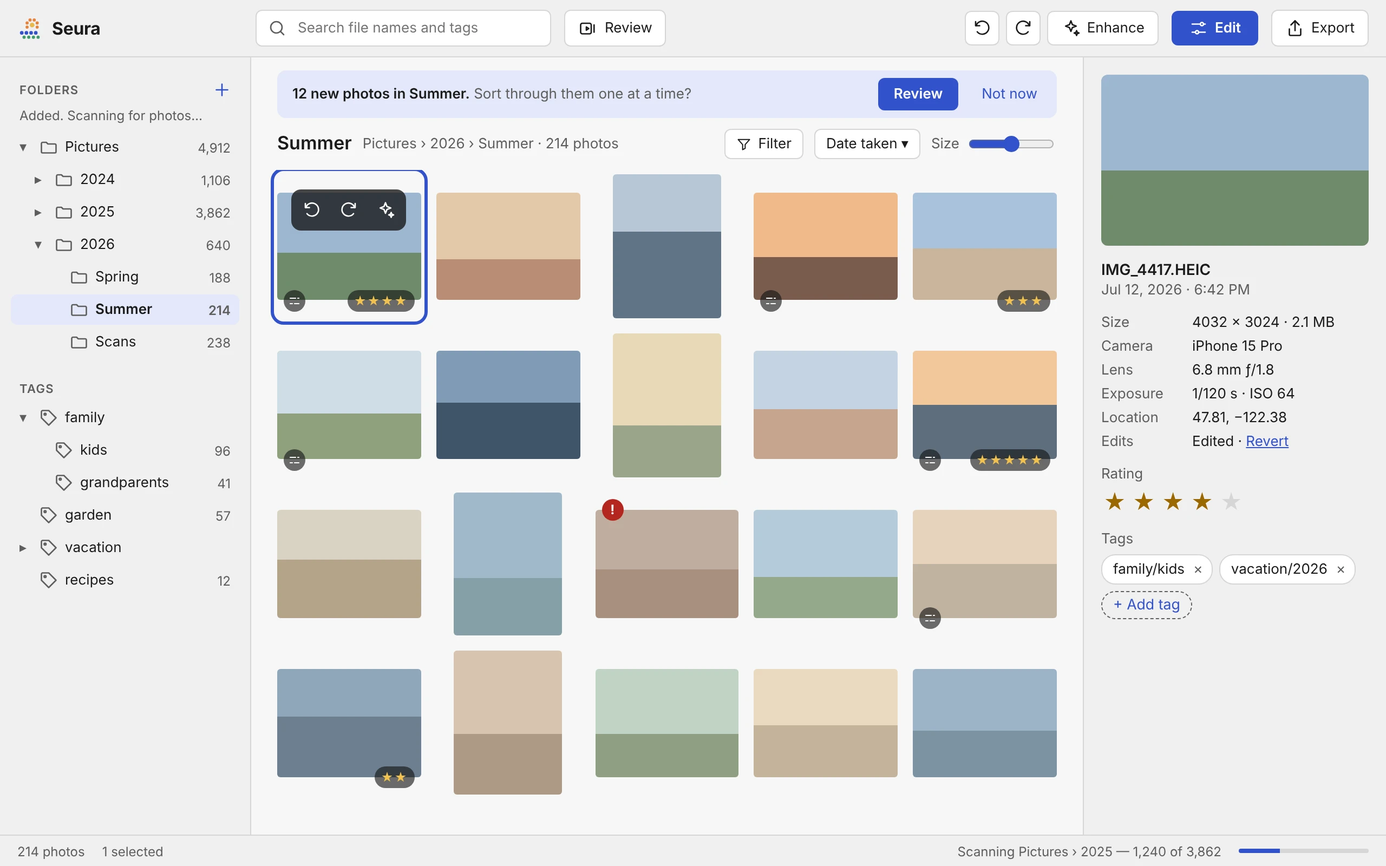
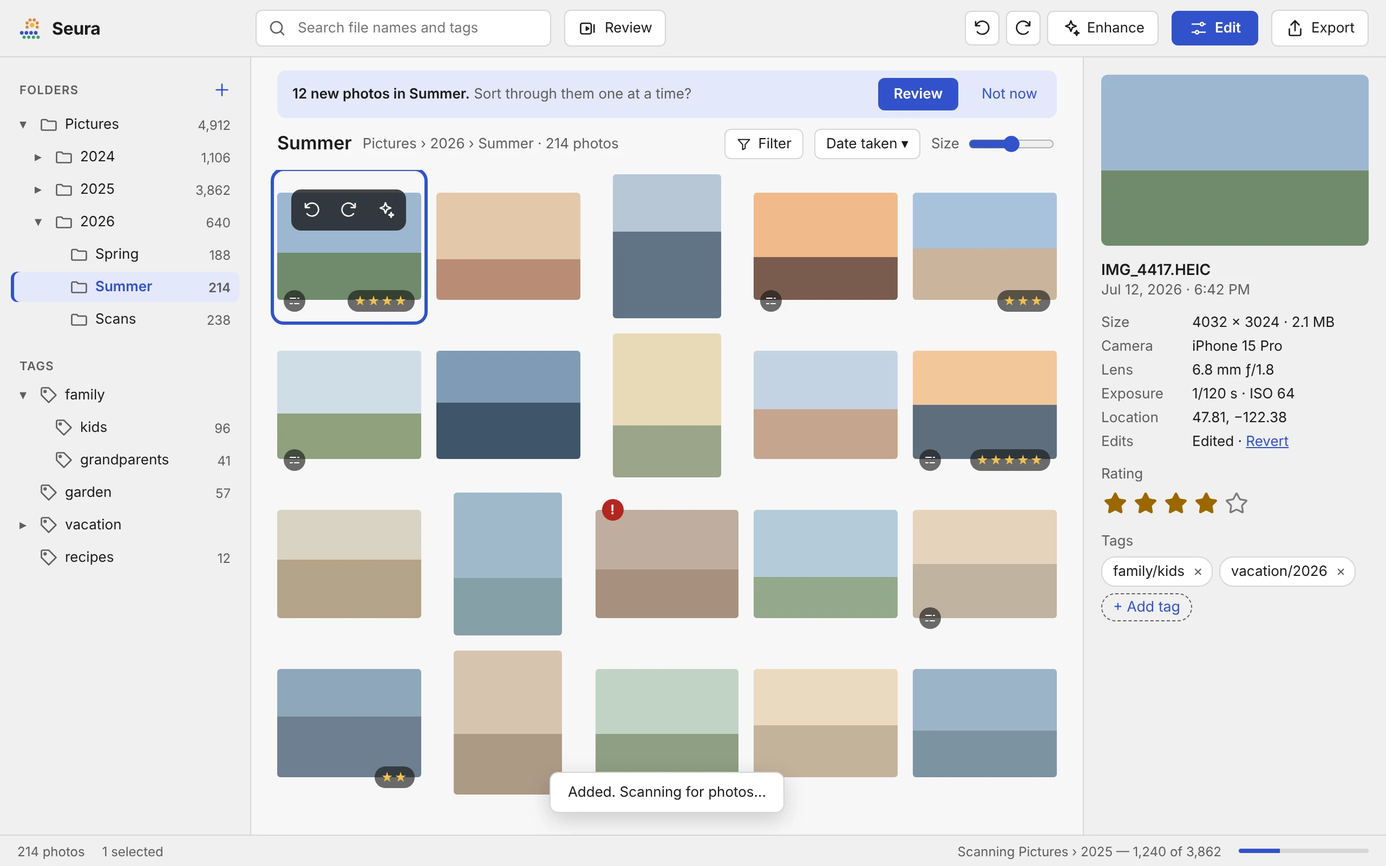
M3 wrap-up: sidebar, messages, deleting cloud photos, early builds
Answers the design questions from building M3:
- Resizable sidebar: 180 to 400 px, divider look and keys (wireframes,
  visual design, tokens sidebarMin and sidebarMax; INT-2 note).
- INT-6 (new): file problems in the notice bar, the last action's result
  in a brief message near the bottom of the photo area, in the Library
  and Viewer alike.
- BRW-9: cloud-only photos and drives with no Recycle Bin stay out of
  Delete; the restore-both point folded into the confirmation.
- TAG-3 (Enter takes the first match), TAG-6 (clicking the current star
  clears), FND-1 (filter count), ACC-6 (web view date fields).
- Visual design: selected row, outline stars (ratingOff, ratingDisabled),
  notice bar styles, the message, the divider.
- Decision 0016: early builds are public from 0.2; milestone plan wording.
- Mockups refreshed; journal entry.

Claude-Session: https://claude.ai/code/session_01S3MFyAFK74DFrLfWJvQiDx

diff --git a/ui/src/styles/tokens.css b/ui/src/styles/tokens.css
@@ -27,6 +27,8 @@
   --size-header: 3.25rem;
   --size-footer: 1.75rem;
   --size-sidebar: 14.5rem;
+  --size-sidebar-min: 11.25rem;
+  --size-sidebar-max: 25rem;
   --size-info-panel: 17.5rem;
   --size-edit-panel: 18.75rem;
   --icon-size: 1.5rem;
@@ -49,7 +51,8 @@
   --color-danger: #B3261E;
   --color-danger-subtle: #FBE9E7;
   --color-rating: #9A6700;
-  --color-rating-off: #C9C9C9;
+  --color-rating-off: #7A7A7A;
+  --color-rating-disabled: #C9C9C9;
 }
 
 @media (prefers-color-scheme: dark) {
@@ -67,6 +70,7 @@
     --color-danger: #FF8A80;
     --color-danger-subtle: #4A2523;
     --color-rating: #E3B341;
-    --color-rating-off: #4D4D4D;
+    --color-rating-off: #808080;
+    --color-rating-disabled: #4D4D4D;
   }
 }

diff --git a/docs/functional-spec.md b/docs/functional-spec.md
@@ -1,6 +1,6 @@
 # Seura Photos — Functional Spec (v1)
 
-Status: approved · Last updated: 2026-10-26
+Status: approved · Last updated: 2026-10-27
 
 This spec defines what Seura Photos v1 does, as behaviors with testable acceptance criteria. It builds on the [product brief](product-brief.md). Screen layout comes in the design phase, and the edit file format has its own specification in [seura-photos/edit-format](https://github.com/seura-photos/edit-format). Each requirement has an ID (LIB-1, EDT-3) so tests, commits, and code can reference it.
 
@@ -34,7 +34,9 @@ Selecting a folder or tag shows its photos in a thumbnail grid; opening one show
 - **BRW-6 Photo info.** A panel, always visible in the Library and Viewer, shows file name, date taken, dimensions, file size, camera and lens, exposure settings (shutter speed and ISO, plus exposure compensation when there was some), location as coordinates, tags, and rating. A photo with no date taken, such as a scan or a screenshot, shows its date modified instead, labeled as such.
 - **BRW-7 Correct display.** Orientation stored in the photo's metadata is honored, and embedded color profiles are applied, so iPhone photos show their true colors.
 - **BRW-8 Open elsewhere.** Show in Explorer or Finder, and open in the system's default app.
-- **BRW-9 Delete.** On explicit request and after confirmation, moves the selected photos and their edit files to the system Recycle Bin or Trash. Never permanent deletion. Not available in read-only folders. Deleting a photo in a cloud-synced folder also deletes it from the cloud and the user's other devices; the service keeps it in its own deleted items for a time. When the selection includes such photos, the confirmation says so, naming the service: "3 of these photos are in OneDrive. They'll be removed from OneDrive on all your devices too. OneDrive keeps deleted files in its own recycle bin for a while." It doesn't promise a number of days, which varies by service and plan. A cloud-only photo is never downloaded just to delete it (LIB-9).
+- **BRW-9 Delete.** On explicit request and after confirmation, moves the selected photos and their edit files to the system Recycle Bin or Trash. Never permanent deletion. Not available in read-only folders. The confirmation says that a photo's edits, tags, and rating are in a small file beside it, which goes too, and that restoring both gets everything back. Deleting a photo in a cloud-synced folder also deletes it from the cloud and the user's other devices; the service keeps it in its own deleted items for a time. When the selection includes such photos, the confirmation says so, naming the service: "3 of these photos are in OneDrive. They'll be removed from OneDrive on all your devices too. OneDrive keeps deleted files in its own recycle bin for a while." It doesn't promise a number of days, which varies by service and plan. Photos that can't reach the Recycle Bin or Trash are left as they are, and the confirmation says which and why, so the user is never one step from a permanent deletion:
+  - **Cloud-only photos:** measured on OneDrive, Windows sends them only to the service's recycle bin online, silently, and macOS refuses. A cloud-only photo is never downloaded just to delete it (LIB-9). The confirmation says to delete it from the service, or to open it first, which downloads it. Downloading them one at a time so they can go to the Trash is planned with Review's batched deletion (M6, REV-4).
+  - **Drives with no Recycle Bin,** such as a USB stick or a network share, where Windows would offer to delete permanently: Delete isn't offered for their photos, as in read-only folders.
 - **BRW-10 Quick actions.** Rotate left and right, Enhance, and rating are available directly in the Library (for the selection) and the Viewer, as one click or one key, without opening the Editor. In the Library, rotate and Enhance also appear on a thumbnail while it's hovered, so the pointer doesn't leave the grid (INT-5).
 - **BRW-11 Undo in the Library.** Ctrl+Z undoes the last action, whatever is selected now; Shift+Ctrl+Z redoes it. An action is one change to every photo it touched, such as a rating or a tag applied to a selection. The app remembers, in memory only, the last 10 actions of the session and which photos each touched; the changes themselves are recorded only in each photo's edit file history (EDT-9). Undoing an action is the edit format's undo on each of those photos: its history record is marked undone, and the previous values are restored, so the Library and the Editor always agree on a photo's history. A photo whose latest change is no longer the one from that action, because it was changed since in the Editor or by another app, or whose history fails the edit format's consistency check, is left alone. What was undone is always said: in the Edit menu on macOS before it's chosen ("Undo Rating (5 photos)"), and as a brief notice afterwards on both platforms ("Undid rating on 5 photos", including how many photos were skipped). After a restart there is nothing to undo in the Library; each photo's own history still works in the Editor. Moving photos to the Trash (BRW-9) is not undoable; its confirmation is the safeguard.
 
@@ -82,10 +84,10 @@ Tags and ratings are stored in each photo's edit file, so they travel with the p
 
 - **TAG-1 Tag structure.** A tag is one string; slashes mark levels for display only. `family`, `kids`, and `family/kids` are three separate tags. In the tag tree, `family/kids` appears as `kids` under `family`. The `family` node exists in the tree even when no photo has the plain tag `family`.
 - **TAG-2 Clean-up of typed tags.** Leading and trailing spaces and slashes, and empty levels such as `family//kids`, are removed. Matching is case-insensitive: typing `Family` when `family` exists selects the existing tag. Case-insensitive matching uses full Unicode case folding on normalized text (NFC), so it works for every language, not just A to Z: `Ärzte` matches `ärzte`, and `STRASSE` matches `straße`. The tag keeps the form the user first typed.
-- **TAG-3 Tag picker.** Lists all existing tags for the user to click. Typing filters the list to tags containing the typed text. Enter adds the highlighted tag, or creates a new tag when nothing matches. With several photos selected, the tag is added to all of them.
+- **TAG-3 Tag picker.** Lists all existing tags for the user to click. Typing filters the list to tags containing the typed text, and the first match is highlighted. "Create tag "…"" is listed above the matches whenever the typed text isn't already a tag, and is highlighted only when nothing matches. Enter adds the highlighted tag, so adding an existing tag, the common case, takes the fewest keys; to create a new tag that other tags contain (typing "beach" when "beach house" exists), choose Create with the arrow keys or a click. With several photos selected, the tag is added to all of them.
 - **TAG-4 Removing tags.** A tag can be removed from one photo or a selection. A tag no photo uses disappears from the tree. There is no renaming or merging.
 - **TAG-5 Tag tree.** Selecting a node shows the photos with exactly that tag, not tags beneath it. Each node shows its photo count: the photos with exactly that tag. A node no photo has exactly, such as `family` when only `family/kids` is used, shows no count, not 0 and not a total of the tags beneath it, since selecting it shows no photos. The tag picker's counts follow the same rule.
-- **TAG-6 Ratings.** Zero to five stars, set by clicking or with keys 0 to 5, on one photo or a selection.
+- **TAG-6 Ratings.** Zero to five stars, set by clicking or with keys 0 to 5, on one photo or a selection. Clicking the current rating's star clears the rating, as in Lightroom and Apple's Photos; it's the mouse's way to clear one, and its accessible name says so ("Clear rating").
 - **TAG-8 Mixed selections.** With several photos selected, the Info panel shows what they have in common. When their ratings differ, the stars show empty with the word "Mixed" beside them, so the state doesn't depend on appearance alone; choosing a rating sets it on all of them. A tag only some of them have shows as a chip with a count, such as "beach · 3 of 7"; its × removes the tag from the photos that have it. The tag picker lists such tags first, and Enter adds the tag to the rest of the selection.
 - **TAG-7 Read-only folders.** Photos there cannot be tagged or rated, and the controls say why: a line in the Info panel where the rating and tags are, such as "This folder is read-only, so tags and ratings can't be saved here." The stars and Add tag stay in place, disabled, so the layout doesn't change (INT-2). Pressing T or 0 to 5 there shows the same message as a notice. A tooltip alone isn't enough: many web views show no tooltip on a disabled control, and it never reaches a keyboard user.
 
@@ -93,7 +95,7 @@ Tags and ratings are stored in each photo's edit file, so they travel with the p
 
 Filters narrow whatever the grid is showing (a folder, a tag, or search results), and a search box looks across the whole library.
 
-- **FND-1 Filters.** Minimum rating, one or more tags (a photo must have all of them), edited or unedited, and date range. Active filters are always visible and can be cleared in one click. They narrow whatever the grid shows, and stay set when the user moves to another folder, tag, or search, since they describe what the user is looking for, not where; they reset when the app restarts, so it never opens on a folder that looks empty. When nothing in view matches, the grid says so ("No photos here match the filters") with a Clear filters button.
+- **FND-1 Filters.** Minimum rating, one or more tags (a photo must have all of them), edited or unedited, and date range. Active filters are always visible and can be cleared in one click, and the Filter button shows how many are set ("Filter · 2"), so an active filter doesn't rely on color alone; the status bar shows how many photos match ("3 of 214 photos"). They narrow whatever the grid shows, and stay set when the user moves to another folder, tag, or search, since they describe what the user is looking for, not where; they reset when the app restarts, so it never opens on a folder that looks empty. When nothing in view matches, the grid says so ("No photos here match the filters") with a Clear filters button.
 - **FND-2 Search.** Matches file names and tags across the whole library. While searching, the grid shows the results from every folder, headed with the search and the number found ("Results for 'beach' · 42 photos"), and the sidebar has no selection. Esc clears the search and returns to the folder or tag selected before. Selecting a folder or tag in the sidebar ends the search.
 - **FND-3 Speed.** Results update as the user types, within 200 milliseconds for a library of 10,000 photos.
 
@@ -148,7 +150,7 @@ The app is opinionated (product brief principle 7; decision 0007): it defines on
   - **Tier 2, at most three clicks or keys:** adjustment sliders, add or remove a tag, export, copy and paste edits, delete, apply a preset.
   - **Tier 3, no limit:** effect strengths, red-eye, save or manage presets, cleanup, settings.
   The user flows document lists each action's tier and path; wireframes and the finished app are checked against it.
-- **INT-2 Fixed layout.** Each view has one layout, decided by the app. There are no options to rearrange, hide, or show panels or toolbars, and no separate beginner or advanced modes.
+- **INT-2 Fixed layout.** Each view has one layout, decided by the app. There are no options to rearrange, hide, or show panels or toolbars, and no separate beginner or advanced modes. Resizing the sidebar's width by dragging its edge isn't a layout option: it changes how much room folder and tag names get, not what's shown or where.
 - **INT-3 Process order.** Wherever the app presents a set of steps, they follow the order find, sort, fix, organize, share. In the Editor, tools are ordered Enhance; crop and straighten; rotate and flip; light; color; effects; red-eye; presets.
 - **INT-4 Progressive disclosure.** Detail appears when it becomes relevant, decided by the app: for example, an effect's strength slider appears once the effect is turned on.
 - **INT-5 Pointer travel.** Layouts minimize how far the pointer moves through a flow (Fitts's law: time to hit a target grows with distance and shrinks with size):
@@ -157,6 +159,9 @@ The app is opinionated (product brief principle 7; decision 0007): it defines on
   - Frequent targets are large: at least 32 px for tier-1 actions, and at least 44 px for the main action of a flow, such as Next in Review or Done in the Editor.
   - Confirmations of destructive actions place the safe choice where the pointer already is, never the destructive one.
   - Wireframes and builds are checked by tracing the pointer's path through the main flows: Review, fixing a photo, and tagging.
+- **INT-6 Messages and notices.** Two kinds, kept apart so neither hides the other, and the same in the Library and the Viewer:
+  - **Problems with the selected photos' files** (FIL-4, FIL-5, FIL-7) show in the notice bar at the top of the photo area for as long as those photos are selected. In the Viewer the photo fits below the bar, never under it.
+  - **The result of the last action,** when it isn't visible on its own (photos moved to the Trash, an undo, photos skipped as read-only, a folder added), shows as a brief message near the bottom of the photo area, centered, for about 6 seconds or until the next action. It never blocks anything and is announced to screen readers.
 
 ## Performance targets
 
@@ -190,7 +195,7 @@ The app should feel at home on each platform and be usable without a mouse or wi
 - **ACC-3 Display.** Text and controls meet WCAG AA contrast, scale with the system text size, and respect light or dark mode and reduced-motion settings.
 - **ACC-4 Native pieces.** System menus, file and folder dialogs, notifications, and Trash or Recycle Bin.
 - **ACC-5 Language.** English only in v1, with all text kept in message catalogs, never in code, so translations can be added later. The interface and the core (menus, dialogs, notifications) share one catalog format, and it handles each language's plural forms and word order: "1 photo" and "214 photos" are one message, not a word with an "s" appended.
-- **ACC-6 Regional formats.** Dates, times, numbers, and file sizes follow the operating system's region settings, even while the interface is in English. A German region shows `12.07.2026, 18:42` and `2,1 MB`; a US region shows `Jul 12, 2026, 6:42 PM` and `2.1 MB`.
+- **ACC-6 Regional formats.** Dates, times, numbers, and file sizes follow the operating system's region settings, even while the interface is in English. A German region shows `12.07.2026, 18:42` and `2,1 MB`; a US region shows `Jul 12, 2026, 6:42 PM` and `2.1 MB`. Date fields drawn by the web view itself, such as the filter's, follow the region too where the platform allows it; where one can't, that's recorded as a known limitation.
 - **ACC-7 Room for translation.** Labels, buttons, menus, and panels allow text about 40% longer than English without truncating or overlapping at the minimum window size (DSP-2), since languages such as German and French often run that much longer. Checked with a pseudo-translated build: every string lengthened and accented, so clipped or untranslated text stands out.
 
 ## Decisions log
@@ -212,7 +217,12 @@ The app should feel at home on each platform and be usable without a mouse or wi
 | What photo info shows | BRW-6's fields plus exposure settings, and date modified only when there's no date taken. Compared against Explorer's details pane and Finder's Get Info (about twenty items between them); the rest stays out to keep the panel short, with the reasons in the [journal](journal/2026-10-22-info-panel-fields.md). Nevada's review, Claude's recommendation, 2026-10-22. |
 | Where Seura keeps its own files | A visible `Seura Photos` folder in the home folder, not Documents, because Documents is often cloud-synced and neither the cache nor the settings should sync (decision 0015). Raised by Nevada, 2026-10-20. |
 | Undo in the Library | Ctrl+Z undoes the last action, not the last change to whatever is selected now, as in almost every app (BRW-11). The app remembers only which photos each of the session's last 10 actions touched; the changes live in each edit file's history, and undoing marks the record undone there rather than adding a new change, so each photo has one history that the Library and the Editor share. Nevada wanted the edit files as the source of record and asked how undo should behave with a selection spanning two earlier actions; Claude's recommendation, Nevada's decision, 2026-10-26. |
-| Deleting cloud-synced photos | Allowed, as for any photo, with the confirmation saying the photos are also removed from the cloud and the user's other devices (BRW-9). Where an online-only file goes when an app moves it to the Trash (the local Recycle Bin or Trash, or only the service's own deleted items) is to be measured on both platforms; if it's only the service's, that's accepted as recoverable and recorded here. Raised by Claude Code, 2026-10-26. |
+| Deleting cloud-synced photos | Allowed, as for any photo, with the confirmation saying the photos also leave the cloud and the user's other devices (BRW-9). Raised by Claude Code, 2026-10-26. |
+| Deleting cloud-only photos | Left out, with the reason in the confirmation (BRW-9). Measured by Nevada on OneDrive: Windows sends them only to the service's online recycle bin, silently, and macOS refuses, so they can't reach the Recycle Bin or Trash. Deleting them anyway, as Finder does with a warning, was rejected: the photo would leave every device, recoverable only online, with Seura unable to tell afterwards. Downloading them first is planned for M6. The same rule keeps Delete off drives with no Recycle Bin. Claude's recommendation, Nevada's decision, 2026-10-27. |
+| Messages and notices | Problems with files in the notice bar at the top of the photo area; the last action's result in a brief message at the bottom of it; both in the Library and the Viewer (INT-6). The sidebar and the status bar were tried first and were easy to miss (Nevada, testing M3). Claude's recommendation, Nevada's decision, 2026-10-27. |
+| Sidebar width | Resizable by dragging, remembered, from 180 to 400 px (INT-2; wireframes). Nevada's decision, 2026-10-23; widths Claude's, 2026-10-27. |
+| Early builds | Public from 0.2, offered on the website with no promise of support; the beta stays in M7 (decision 0016). Nevada's decision, 2026-10-27. |
+| Enter in the tag picker | Adds the first existing match; Create is chosen only when nothing matches, or by hand (TAG-3). Claude Code's choice while building, confirmed 2026-10-27. |
 | Backups of unreadable edit files | In Seura's own folder, not beside the photo, so nothing new is written into the user's folders (FIL-4; CLAUDE.md rule 2). Raised by Claude Code, 2026-10-26. |
 | Search, filters, and counts | Search replaces the grid until Esc (FND-2); filters persist across folders but not restarts (FND-1); parent tag nodes show no count rather than a total (TAG-5); mixed selections show "Mixed" and partial tags with a count (TAG-8); read-only folders say why in the Info panel (TAG-7). Raised by Claude Code while planning M3, 2026-10-26; Claude's recommendations, Nevada's decision. |
 | Sort order and thumbnail size | One app-wide sort order (BRW-2); thumbnails 96 to 256 px, default 160 (BRW-3). |

diff --git a/docs/ux/wireframes.md b/docs/ux/wireframes.md
@@ -1,6 +1,6 @@
 # Seura Photos — Wireframes (v1)
 
-Status: approved · Last updated: 2026-10-17
+Status: approved · Last updated: 2026-10-27
 
 The wireframes live on a design canvas in the project owner's Claude account. This document records what they establish, screen by screen, so the decisions are available in the repository. They define layout and flow only; visual styling (color, type, iconography) comes later. Requirement IDs refer to the [functional spec](../functional-spec.md); flows are in [user-flows.md](user-flows.md).
 
@@ -9,7 +9,9 @@ All screens were drawn at 1280×800 logical pixels, close to the 1280×720 minim
 ## Shared structure
 
 - **Toolbar** (52 px) across the top of every view; **status bar** (28 px) at the bottom of the Library and Viewer.
-- **Sidebar** (232 px; 260 px at 1920 wide): FOLDERS tree, then TAGS tree, each row with a count. The FOLDERS heading has an Add folder button (+, 32 px, accent color) at its right and stays in view while the tree scrolls; the last action's one-line notice (for example "Added. Scanning for photos…") shows under it. A link at the end of the tree scrolled out of sight with many folders, and a button pinned to the bottom of the sidebar would end up below TAGS in M3. TAGS can follow the same pattern if tags get an add action (Nevada, 2026-10-22).
+- **Sidebar** (232 px by default; 260 px at 1920 wide): FOLDERS tree, then TAGS tree, each row with a count. The FOLDERS heading has an Add folder button (+, 32 px, accent color) at its right and stays in view while the tree scrolls. A link at the end of the tree scrolled out of sight with many folders, and a button pinned to the bottom of the sidebar would end up below TAGS. TAGS can follow the same pattern if tags get an add action (Nevada, 2026-10-22). A name that doesn't fit ends with "…" and shows in full in a tooltip.
+- **Resizable sidebar** (Nevada, 2026-10-23; #74): drag the divider between the sidebar and the grid, from 180 to 400 px. 180 fits the FOLDERS heading with its + and a couple of levels, even with text 40% longer (ACC-7); 400 still leaves the grid 600 px, three columns at the default thumbnail size, in a 1280-wide window (DSP-2). The width is remembered; until the user drags it, the default follows the window as above. At rest the divider is the existing 1 px border; its grab area is 8 px wide, centered on it. On hover and while dragging, the resize cursor shows and the line becomes 2 px in the accent text color, with the tooltip "Drag to resize. Double-click to reset." Double-click resets the default. From the keyboard it's a focusable separator ("Sidebar width", with its value), in the Tab order between the sidebar and the grid, showing the same 2 px line and the focus ring: ← → move it 16 px, Home and End go to the minimum and maximum, and Enter resets it. The Info panel stays a fixed width.
+- **Selected row** in either tree: the accent-subtle fill, a 3 px bar on its left edge and the text and icon in the accent text color, so the selection shows at well over 3:1 in both modes (the fill alone is about 1.1:1).
 - **Info panel** (280 px; 320 px at 1920 wide), always shown in Library and Viewer: preview, file name, date (date modified when there's no date taken), size, camera, lens, exposure, location, edit state with Revert, rating stars, tag chips with Add tag.
 - Dark surround (#2b2d30 in the wireframes) behind photos in the Viewer, Editor, and Review, so photos aren't judged against a bright frame.
 - Control sizes are fixed across window sizes; only photo areas and panel widths grow.
@@ -23,6 +25,8 @@ A single centered card: title; two sentences (what the app does; originals are n
 - **Toolbar:** app name; search; Review; then, on the right, the selection's quick fixes (rotate left, rotate right, Enhance), Edit (primary), Export.
 - **Review banner** above the grid when new photos are found: "12 new photos in Summer. Sort through them one at a time?" with Review and Not now.
 - **Folder header row:** name, path, count; then Filter, sort, and thumbnail size on the right.
+- **Notice bar** at the top of the photo area, above the heading, for problems with the selected photos' files (flow 11; INT-6).
+- **Message** near the bottom of the photo area, centered, for the last action's result: "Added. Scanning for photos…", "Moved 3 photos to the Recycle Bin.", "Undid rating on 5 photos" (INT-6).
 - **Grid:** square cells, photos letterboxed inside; selected cell outlined in the accent color. Badges: edited (bottom left), rating (bottom right), unreadable edit file (top left, red). Hovering a cell shows rotate left, rotate right, and Enhance (32 px) on the photo (BRW-10, INT-5).
 - At 1920×1080: 7 columns of ~175 px thumbnails instead of 5 of ~140 px; same controls.
 
@@ -39,7 +43,8 @@ A single centered card: title; two sentences (what the app does; originals are n
 - **Toolbar:** back to the folder; file name; "37 of 214"; zoom group (−, Fit, 100%, +); rotate left and right; Enhance; Edit (primary); Export.
 - **Photo** centered on the dark surround, with 48 px previous and next buttons at the edges.
 - **Info panel** as in the Library, plus the folder as a link.
-- **Status bar:** zoom level and the main keys.
+- **Notice bar and message** as in the Library, over the photo area: the notice bar pushes the photo down rather than covering it.
+- **Status bar:** zoom level and the main keys only.
 
 ## 5. Editor (EDT-*, PRE-*)
 
@@ -66,7 +71,7 @@ A single centered card: title; two sentences (what the app does; originals are n
 ## 7. Tag picker (TAG-3)
 
 - A popover anchored beside the selection (or the Add tag control), with a pointer to it (INT-5).
-- Title "Tag 3 photos" and the key hints; chips for tags already added, each with ×; a text field; the list of existing tags with counts, filtered as the user types, first match highlighted; "Create tag "…"" at the top when the text matches nothing.
+- Title "Tag 3 photos" and the key hints; chips for tags already added, each with ×; a text field; the list of existing tags with counts, filtered as the user types, first match highlighted; "Create tag "…"" above them whenever the text isn't already a tag, highlighted only when nothing matches (TAG-3).
 
 ## 8. Export (EXP-*)
 

diff --git a/docs/ux/user-flows.md b/docs/ux/user-flows.md
@@ -1,6 +1,6 @@
 # Seura Photos — User Flows and Screen Map (v1)
 
-Status: approved · Last updated: 2026-10-26
+Status: approved · Last updated: 2026-10-27
 
 This document describes the screens of Seura Photos v1 and how a user moves between them. It turns the [functional spec](../functional-spec.md) into screens and steps; requirement IDs refer to it. Wireframes are on the design canvas and will be summarized here as they settle.
 
@@ -62,7 +62,8 @@ Cost is counted from the view where the user most likely is when they want the a
 | Delete confirmation | Dialog | Delete | BRW-9 |
 | Cleanup | Dialog with preview | File menu, folder context menu | CLN-* |
 | Settings | Window (macOS) or dialog (Windows) | App or Edit menu | SET-2 |
-| Notices | Bar at the top of the main area | Problems with files or folders | FIL-3, FIL-4, FIL-7, LIB-6 |
+| Notices | Bar at the top of the photo area, in the Library and Viewer | Problems with the selected photos' files | FIL-3, FIL-4, FIL-5, FIL-7, INT-6 |
+| Messages | Brief box near the bottom of the photo area, in the Library and Viewer | The result of the last action | INT-6 |
 
 ## Layout of the main window
 
@@ -145,11 +146,11 @@ The basis of the design test: fix a crooked, dark photo in under five minutes.
 ### 5. Tag and rate (TAG-*)
 
 1. Select photos in the Library, or open one in any view.
-2. `T` opens the tag picker with all existing tags listed. Typing filters; Enter adds the highlighted tag or creates the typed one. The picker stays open for more; Esc closes it.
+2. `T` opens the tag picker with all existing tags listed. Typing filters and highlights the first match; Enter adds it. "Create tag" is listed above the matches when the text isn't a tag yet, and Enter chooses it only when nothing matches (TAG-3). The picker stays open for more; Esc closes it.
 3. Tags show as chips in the Info panel; × removes one. With several photos selected, a tag only some of them have shows its count ("beach · 3 of 7"); the picker lists it first, and Enter adds it to the rest (TAG-8).
-4. `0`–`5` or the stars set the rating. Mixed ratings in a selection show empty stars and "Mixed" until one is chosen (TAG-8).
+4. `0`–`5` or the stars set the rating; clicking the current rating's star clears it. Mixed ratings in a selection show empty stars and "Mixed" until one is chosen (TAG-8).
 5. Selecting a tag in the sidebar shows the photos with exactly that tag, from every folder (TAG-5). A parent node no photo has exactly shows no count.
-6. Ctrl+Z undoes the last action, whichever photos are selected now, and a brief notice says what was undone ("Undid rating on 5 photos"); Shift+Ctrl+Z redoes it (BRW-11).
+6. Ctrl+Z undoes the last action, whichever photos are selected now, and a brief message says what was undone ("Undid rating on 5 photos"); Shift+Ctrl+Z redoes it (BRW-11).
 7. In a read-only folder, the stars and Add tag are disabled, and a line where they are says why; T and `0`–`5` show the same message (TAG-7).
 
 ### 6. Find photos (FND-*)
@@ -173,8 +174,10 @@ The basis of the design test: fix a crooked, dark photo in under five minutes.
 ### 9. Delete (BRW-9)
 
 1. Select photos, press Delete (Cmd+Delete on macOS).
-2. Confirm; the photos and their edit files go to the Recycle Bin or Trash. If any are in a cloud-synced folder, the confirmation says they'll also be removed from that service on all the user's devices.
-3. Not undoable with Ctrl+Z; they can be restored from the Recycle Bin or Trash.
+2. Confirm; the photos and their edit files go to the Recycle Bin or Trash. The confirmation says each photo's edits are in a small file beside it that goes too, and that restoring both gets everything back. If any are in a cloud-synced folder, it says they'll also be removed from that service on all the user's devices.
+3. Cloud-only photos, and photos on a drive with no Recycle Bin, are left as they are, and the confirmation says which and why (BRW-9). If none can go, it's a dialog with OK.
+4. A message confirms what moved ("Moved 3 photos to the Recycle Bin.").
+5. Not undoable with Ctrl+Z; they can be restored from the Recycle Bin or Trash.
 
 ### 10. Cleanup (CLN-*)
 
@@ -184,7 +187,7 @@ The basis of the design test: fix a crooked, dark photo in under five minutes.
 
 ### 11. Problems with files (FIL-*, LIB-6)
 
-Shown as a notice bar at the top of the main area, never a blocking dialog:
+Shown as a notice bar at the top of the photo area, in the Library and the Viewer, never a blocking dialog (INT-6). A problem that needs the user to act (an unreadable file, with Start over) uses the warning style; the others are informational, with a warning icon where it's a caution:
 
 - **Changed on disk while editing:** "This photo's edits were changed outside Seura Photos. Keep yours or load theirs?"
 - **Unreadable edit file:** the photo shows unedited with a warning badge; the notice offers Start over. The old file goes to `Unreadable edit files` in Seura's folder, and the notice then says so, with Show in folder (FIL-4).
@@ -208,6 +211,7 @@ Ctrl on Windows, Cmd on macOS. Single-letter keys work in every view except whil
 | Crop (in Editor) | C |
 | Mark for deletion (in Review) | X |
 | Compare with original | Hold `\` |
+| Sidebar width (divider focused) | ← →, Home, End; Enter resets |
 | Undo, redo | Ctrl+Z, Shift+Ctrl+Z (in the Library, the last action, BRW-11; in the Editor, the photo's history, EDT-9) |
 | Copy edits, paste edits | Shift+Ctrl+C, Shift+Ctrl+V |
 | Export | Ctrl+E |
@@ -225,4 +229,5 @@ Ctrl on Windows, Cmd on macOS. Single-letter keys work in every view except whil
 | Thumbnail badges | Always visible, small and quiet. |
 | Undo in the Library | The last action, not the selection's last changes; one history per photo, in its edit file (BRW-11). |
 | Search results | Replace the grid until Esc or a sidebar selection (FND-2). |
+| Where messages go | Problems with files: the notice bar at the top of the photo area. The last action's result: a brief message near its bottom. Same in the Library and Viewer (INT-6). |
 | Modes and customization | None: one fixed layout per view, no beginner or advanced modes (INT-2, decision 0007). |

diff --git a/docs/visual-design.md b/docs/visual-design.md
@@ -1,6 +1,6 @@
 # Seura Photos — Visual Design
 
-Status: approved · Last updated: 2026-10-18
+Status: approved · Last updated: 2026-10-27
 
 The look of the app, its icon, and its brand. The layouts themselves are in the [wireframes](ux/wireframes.md); this document covers color, type, icons, and the mark. The values live in [`design/tokens.json`](../design/tokens.json), which the app and the website both read, so they can't drift apart.
 
@@ -27,11 +27,23 @@ Two sets of tokens, light and dark; the app follows the operating system's setti
 | accentText | `#3352CC` | `#8EA6FF` | Links and quiet buttons |
 | accentSubtle | `#E3E8FA` | `#26304F` | Selected rows, banners, effects that are on |
 | danger | `#B3261E` | `#FF8A80` | Unreadable edit files, Trash confirmations |
-| rating | `#9A6700` | `#E3B341` | Stars |
+| rating | `#9A6700` | `#E3B341` | Filled stars |
+| ratingOff | `#7A7A7A` | `#808080` | Empty stars, drawn as outlines (3:1 or more on the panel and surface) |
+| ratingDisabled | `#C9C9C9` | `#4D4D4D` | Stars in a read-only folder; disabled controls are exempt from contrast, and a line of text says why (TAG-7) |
 
 Markers drawn over photos (edited, rating, hover tools) use a dark translucent pill with white content, which reads on any photo in either mode.
 
 **Brand dots**, for the mark, website, and installer only: blue `#3352CC`, sky `#7FA3E8`, green `#3E9A6A`, gold `#E9B949`, orange `#E8823A`, rose `#D9606A`.
+
+## Components
+
+Details the tokens alone don't settle, decided while building M3.
+
+- **Selected row** (folder and tag trees): the accentSubtle fill, plus a 3 px bar on the left edge and the text and icon in accentText. The fill alone is about 1.1:1 against the panel, below the 3:1 a state needs (WCAG 1.4.11). The bar uses accentText, not accent: in dark mode accent is only 2.3:1 against the fill, accentText 5.6:1.
+- **Stars:** filled in rating, empty as outlines in ratingOff, so empty and filled differ by shape as well as color; disabled in ratingDisabled.
+- **Notice bar** (problems with files, INT-6): accentSubtle with an info icon for information; with a warning icon for a caution that needs nothing done, such as a photo changed by another program (FIL-7); dangerSubtle with a warning icon only when the user needs to act, such as an unreadable edit file with Start over (FIL-4). 8 px corners, at the top of the photo area.
+- **Message** (the last action's result, INT-6): text on surface with a border and a soft shadow (`0 6px 20px rgba(0,0,0,0.18)`), 8 px corners, near the bottom of the photo area, centered, up to 480 px wide.
+- **Sidebar divider:** the 1 px border at rest; 2 px in accentText on hover, while dragging, and when focused, with the focus ring (wireframes, "Resizable sidebar"). Widths are the sidebar, sidebarMin, and sidebarMax tokens.
 
 ## Type
 

diff --git a/docs/decisions/0016-public-early-builds.md b/docs/decisions/0016-public-early-builds.md
@@ -1,0 +1,34 @@
+# 0016. Early builds are public from 0.2
+
+Status: Accepted · 2026-10-27
+
+## Context
+
+The milestone plan made each milestone's numbered pre-release build "for the owner's own use", with a public beta, with volunteer testers and a written checklist, in M7. Build 0.1.1 was published as a GitHub pre-release, where anyone who looks can find it, but nothing pointed to it (#76).
+
+By the end of M3, two things changed:
+
+- **The Mac build opens without Terminal.** It's ad-hoc signed (#71), so the first launch needs only System Settings → Privacy & Security → Open Anyway. Windows SmartScreen warns, then runs it.
+- **Build 0.2 can tag and rate,** not just browse, so it shows what Seura is for.
+
+The project is built in the open, with a devlog. Readers can follow the decisions but had no way to try the result.
+
+## Decision
+
+From build 0.2, each milestone's pre-release build is offered on the website (seuraphotos.app) in a short "Try an early build" section, linking to the GitHub release.
+
+- **What the website says:** that it's an early build, not the beta; that it isn't signed for distribution, and what each system shows the first time; that there are no automatic updates until M7; what it can and can't do yet; and that it never changes the user's photos, and where it keeps its own files.
+- **Install steps stay in each release's notes,** where they're correct for that build. The website links to them.
+- **Release notes** begin: "An early build of Seura Photos, before the beta: some features are still missing, and there are no automatic updates yet. It never changes your photos." They don't describe what the build can do, so they never go out of date.
+- **No promise of support.** Problems can be reported on GitHub, but early builds aren't the beta: no checklist, no recruited testers.
+
+## Rejected
+
+- **Keeping builds unannounced until the beta (M7):** safe, but readers of a public devlog couldn't try anything for months.
+- **Announcing from 0.1:** it needed a Terminal command to open on the Mac, and could only browse.
+
+## Consequences
+
+- The milestone plan's wording changes (each milestone's build is public from 0.2).
+- Data safety matters to strangers from 0.2, not only to the owner. The rules in CLAUDE.md and the data-safety tests already apply to every build.
+- The release workflow's notes change (Claude Code).

diff --git a/docs/journal/2026-10-27-m3-design-answers.md b/docs/journal/2026-10-27-m3-design-answers.md
@@ -1,0 +1,9 @@
+# M3 wrap-up: design answers (design session)
+
+- **Claude Code brought fourteen questions** from building M3, in four groups: what's needed to finish (when to build 0.2, the resizable sidebar, early builds on the website), deleting photos, notices, and its own choices to confirm. Nevada agreed with all of Claude's recommendations, and said how he'd like to work from here: he'll generally defer to Claude on current practice, and ask for changes after seeing the running app. "Trust, then verify."
+- **Build 0.2 now,** without the resizable sidebar, so tagging his own library can start; the sidebar follows in 0.2.1, still in M3.
+- **Early builds go public from 0.2** (decision 0016): a "Try an early build" section on the website, and new release-note wording.
+- **Cloud-only photos stay out of Delete.** Deleting them anyway, as Finder does with a warning, would send a photo off every device, recoverable only from the service online, and on Windows silently. Opening a photo downloads it, so anything the user has looked at can be deleted normally; downloading the rest first is planned with Review in M6. Drives with no Recycle Bin are treated the same way.
+- **Messages moved.** Nevada had found the last action's notices easy to miss under FOLDERS. Claude separated two kinds: problems with the selected photos' files stay in the notice bar at the top; the last action's result becomes a brief message near the bottom of the photo area, in the Library and Viewer alike (INT-6). The status bar was rejected as the easiest place on screen to miss.
+- **Contrast fixes found by Claude while checking:** the selected row's new accent bar was only 2.3:1 in dark mode, so it uses accentText; empty stars become outlines in a darker gray (3.8:1 and 4.0:1), and disabled stars keep the old faint gray as a token of their own.
+- **The tag picker:** Claude Code's behavior (Enter takes the first match) stands, and the wireframe's picture, which showed Create highlighted, was corrected.

diff --git a/docs/milestone-plan.md b/docs/milestone-plan.md
@@ -11,7 +11,7 @@ There are no dates. This is a one-person project built alongside other commitmen
 - **Risk first, then usefulness.** The first milestone proves the hard technical pieces on both platforms. After that, every milestone leaves the owner with an app he can actually use for more of his own photos than before.
 - **Read before write.** The app only reads until the data-safety tests are in place. Writing edit files comes after browsing works, and deletion comes after writing works.
 - **Process order.** Features arrive roughly in the order of the user's process: find, sort, fix, organize, share. The Review flow comes once the actions it combines exist.
-- **Every milestone ends the same way:** its exit criteria met, CI green on Windows and macOS, a numbered pre-release build for the owner's own use, and a short write-up for the project record.
+- **Every milestone ends the same way:** its exit criteria met, CI green on Windows and macOS, a numbered pre-release build, and a short write-up for the project record. From 0.2, these builds are offered on the website as early builds anyone can try, with no promise of support; the beta, with testers and a checklist, is still M7 (decision 0016).
 
 ## Tracks
 
@@ -138,5 +138,5 @@ The first update adds AI assistance (bring your own key), as the [product brief]
 
 - Each milestone is broken into GitHub issues, one per requirement or small slice, labeled with the requirement IDs.
 - Changes are small and reviewable, each with tests, referencing requirement IDs in commit messages.
-- Pre-release builds are numbered 0.1 (M2) through 0.6 (M7's beta), so the owner can run and compare them.
+- Pre-release builds are numbered 0.1 (M2) through 0.6 (M7's beta), so the owner can run and compare them. From 0.2 they're public early builds (decision 0016).
 - A change that conflicts with the spec, the technical design, or a decision record stops and gets raised rather than worked around.

diff --git a/docs/ux/mockups/README.md b/docs/ux/mockups/README.md
@@ -1,6 +1,6 @@
 # Mockups
 
-Images of the screens on the design canvas, for checking each slice against. Rendered from the canvas on 2026-10-20, with the Library and Viewer images refreshed on 2026-10-22 (Add folder in the FOLDERS heading; the Exposure row in photo info); the canvas is the source, and these are refreshed when it changes. The photos are placeholders.
+Images of the screens on the design canvas, for checking each slice against. Rendered from the canvas on 2026-10-20, with the Library, Viewer, and tag picker images refreshed on 2026-10-27 (the selected row, outline stars, and the last action's message); the Exposure row in photo info); the canvas is the source, and these are refreshed when it changes. The photos are placeholders.
 
 **Styled** (visual design, `docs/visual-design.md`), each in light and dark:
 

diff --git a/docs/decisions/README.md b/docs/decisions/README.md
@@ -23,3 +23,4 @@ Short records of significant decisions: what was chosen, why, and what was rejec
 | [0013](0013-web-view-and-os-data.md) | Data the web view and operating system keep on their own | Accepted |
 | [0014](0014-heic-system-decoders-only.md) | HEIC decoding: the operating system's decoders only | Accepted |
 | [0015](0015-app-data-in-home-folder.md) | App data in a Seura Photos folder in the home folder | Accepted |
+| [0016](0016-public-early-builds.md) | Early builds are public from 0.2 | Accepted |
